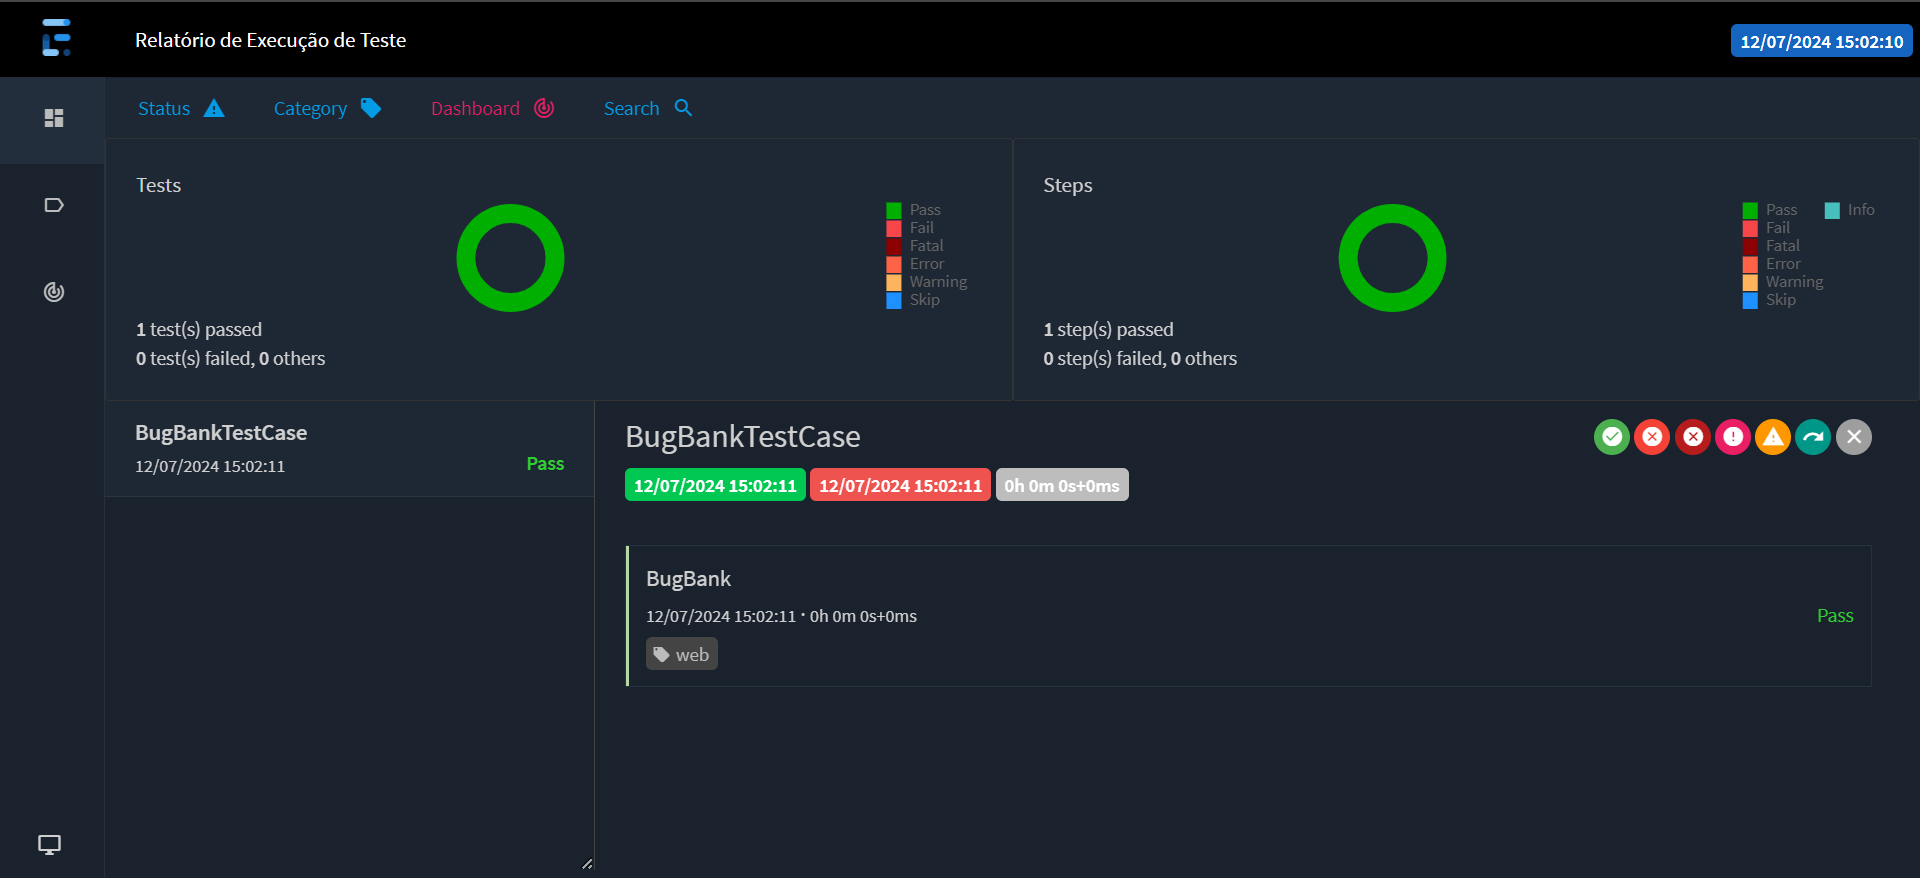
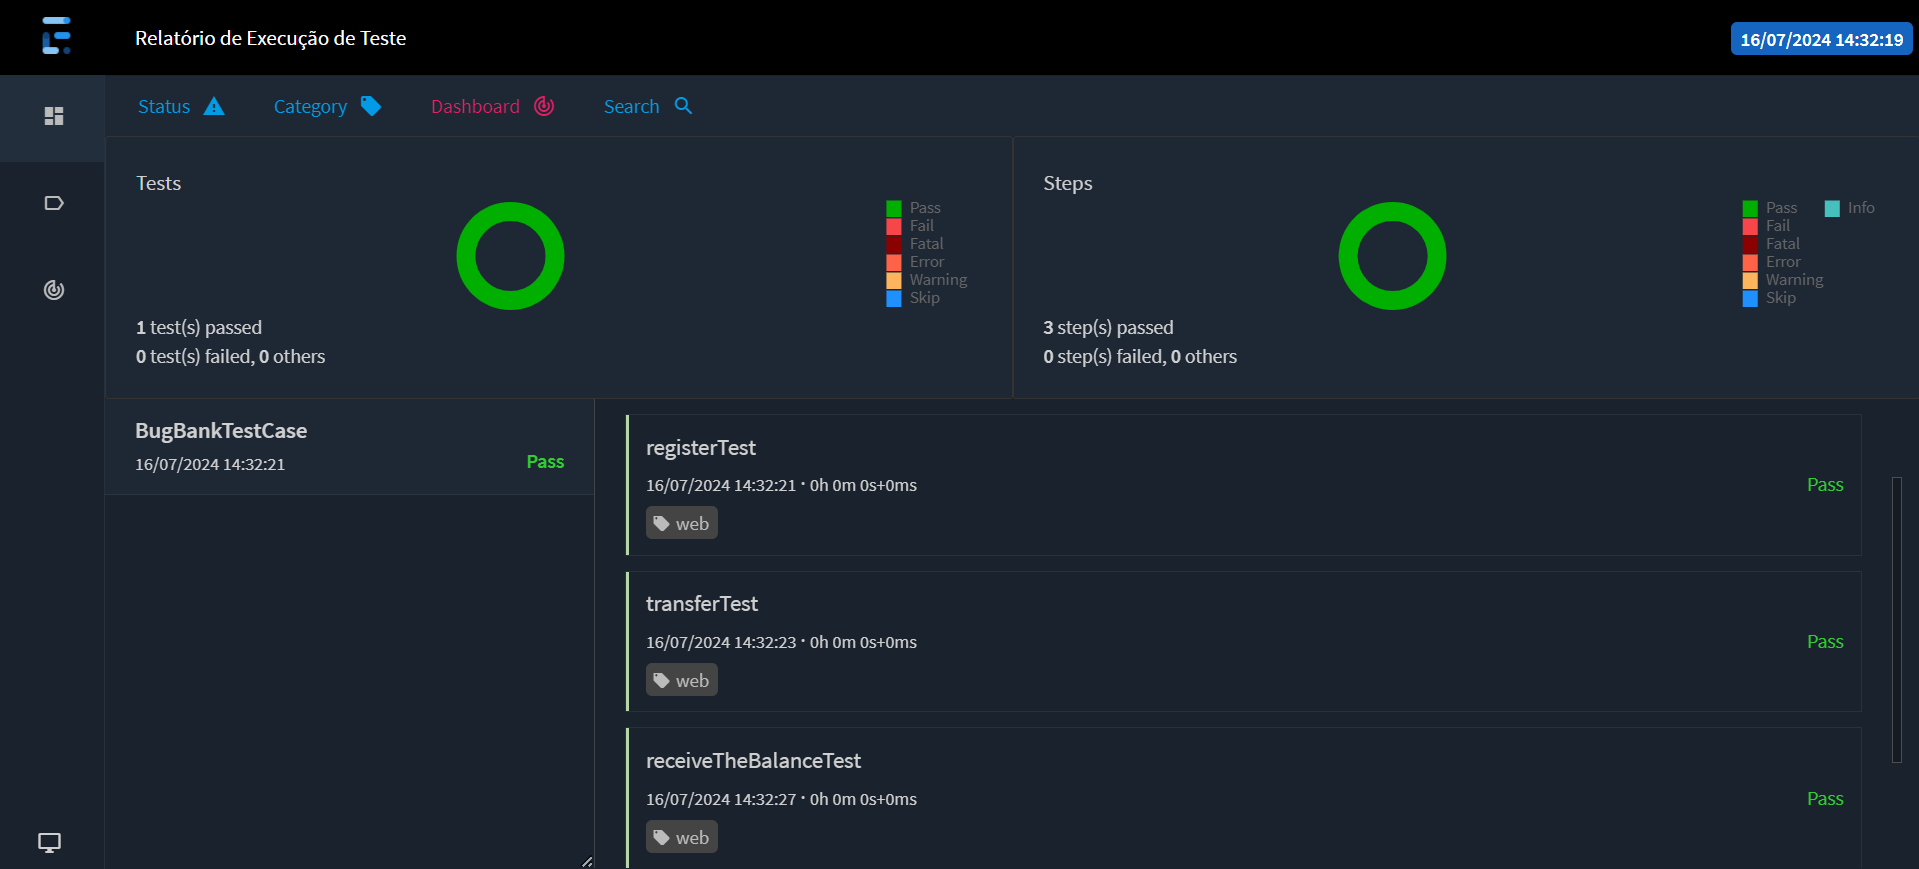
update readme

diff --git a/src/main/java/app/netlify/bugbank/steps/AccountMovementStep.java b/src/main/java/app/netlify/bugbank/steps/AccountMovementStep.java
@@ -1,46 +1,46 @@
-//package app.netlify.bugbank.steps;
-//
-//import app.netlify.bugbank.data.UserModel;
-//import app.netlify.bugbank.pageobjects.AccountScreenPageObject;
-//import app.netlify.bugbank.utils.Report;
-//import app.netlify.bugbank.validations.Validation;
-//import com.aventstack.extentreports.Status;
-//import org.openqa.selenium.WebDriver;
-//
-//import java.io.IOException;
-//
-//public class AccountMovementStep {
-//    private final AccountScreenPageObject accountScreenPageObject;
-//    private final Validation validation;
-//
-//    public AccountMovementStep(WebDriver driver) {
-//        accountScreenPageObject = new AccountScreenPageObject(driver);
-//        validation = new Validation(driver);
-//    }
-//
-//    public void receiveTheBalance() throws IOException {
-//        UserModel data = new UserModel("2_user");
-//        login(data.getEmail(), data.getPassword());
-//        bankStatement();
-//    }
-//
-//    private void login(String emailSecond, String passwordUserSecond) throws IOException {
-//        Report.log(Status.INFO, "O segundo do usuario acessar na conta.");
-//        accountScreenPageObject.emailTextField().sendKeys(emailSecond);
-//        accountScreenPageObject.passwordTextField().sendKeys(passwordUserSecond);
-//        accountScreenPageObject.accessAccountButton().click();
-//        validation.secondUserAccountPage();
-//    }
-//
-//    private void bankStatement() throws IOException {
-//        Report.log(Status.INFO, "Movimento bancária do usuario");
-//        accountScreenPageObject.balanceStatementButton().click();
-//        validation.accountMovement();
-//        if (!accountScreenPageObject.exitAccountButton().isSelected()) {
-//            accountScreenPageObject.exitAccountButton().click();
-//            Report.logCapture(Status.PASS, "O segundo usuario saiu da conta com sucesso.");
-//        } else {
-//            Report.logCapture(Status.FAIL, "Não saiu da conta.");
-//        }
-//    }
-//}
+package app.netlify.bugbank.steps;
+
+import app.netlify.bugbank.pageobjects.AccountScreenPageObject;
+import app.netlify.bugbank.utils.Report;
+import app.netlify.bugbank.validations.Validation;
+import com.aventstack.extentreports.Status;
+import org.openqa.selenium.WebDriver;
+
+import java.io.IOException;
+
+import static app.netlify.bugbank.security.DecrytData.*;
+
+public class AccountMovementStep {
+    private final AccountScreenPageObject accountScreenPageObject;
+    private final Validation validation;
+
+    public AccountMovementStep(WebDriver driver) {
+        accountScreenPageObject = new AccountScreenPageObject(driver);
+        validation = new Validation(driver);
+    }
+
+    public void receiveTheBalance() throws Exception {
+        login(decryptoEmail("2_user_crypto"), decryptoPassword("2_user_crypto"));
+        bankStatement();
+    }
+
+    private void login(String emailSecond, String passwordUserSecond) throws IOException {
+        Report.log(Status.INFO, "O segundo do usuario acessar na conta.");
+        accountScreenPageObject.emailTextField().sendKeys(emailSecond);
+        accountScreenPageObject.passwordTextField().sendKeys(passwordUserSecond);
+        accountScreenPageObject.accessAccountButton().click();
+        validation.secondUserAccountPage();
+    }
+
+    private void bankStatement() throws IOException {
+        Report.log(Status.INFO, "Movimento bancária do usuario");
+        accountScreenPageObject.balanceStatementButton().click();
+        validation.accountMovement();
+        if (!accountScreenPageObject.exitAccountButton().isSelected()) {
+            accountScreenPageObject.exitAccountButton().click();
+            Report.logCapture(Status.PASS, "O segundo usuario saiu da conta com sucesso.");
+        } else {
+            Report.logCapture(Status.FAIL, "Não saiu da conta.");
+        }
+    }
+}

diff --git a/src/test/java/app/netlify/bugbank/testcases/BugBankTestCase.java b/src/test/java/app/netlify/bugbank/testcases/BugBankTestCase.java
@@ -1,5 +1,6 @@
 package app.netlify.bugbank.testcases;
 
+import app.netlify.bugbank.steps.AccountMovementStep;
 import app.netlify.bugbank.steps.CreateAccountStep;
 import app.netlify.bugbank.steps.TransferStep;
 import app.netlify.bugbank.utils.BaseTest;
@@ -35,13 +36,13 @@ public class BugBankTestCase extends BaseTest {
         transfer.makeTransfer();
     }
 
-//    @Test (
-//            description = "Receber o saldo da transferência.",
-//            groups = {"web"},
-//            priority = 3
-//    )
-//    public void receiveTheBalanceTest() throws IOException {
-//        AccountMovementStep accountMovement = new AccountMovementStep(driver());
-//        accountMovement.receiveTheBalance();
-//    }
+    @Test (
+            description = "Receber o saldo da transferência.",
+            groups = {"web"},
+            priority = 3
+    )
+    public void receiveTheBalanceTest() throws Exception {
+        AccountMovementStep accountMovement = new AccountMovementStep(driver());
+        accountMovement.receiveTheBalance();
+    }
 }

diff --git a/src/main/java/app/netlify/bugbank/security/SecureProperties.java b/src/main/java/app/netlify/bugbank/security/SecureProperties.java
@@ -1,11 +1,11 @@
-package app.netlify.bugbank.utils.security;
+package app.netlify.bugbank.security;
 
 import app.netlify.bugbank.utils.FilesOperation;
 
 import java.io.IOException;
 
 import static app.netlify.bugbank.data.UserData.*;
-import static app.netlify.bugbank.utils.security.Crypto.*;
+import static app.netlify.bugbank.security.Crypto.*;
 
 public class SecureProperties {
 
@@ -36,8 +36,4 @@ public class SecureProperties {
         FilesOperation.createProperties("dataUSer", "2_user_crypto");
         FilesOperation.createProperties("dataUSer", "2_user");
     }
-
-//    public static void deleteProperties() {
-//        FilesOperation.deleteAllProperties("dataUSer");
-//    }
 }

diff --git a/src/main/java/app/netlify/bugbank/steps/CreateAccountStep.java b/src/main/java/app/netlify/bugbank/steps/CreateAccountStep.java
@@ -10,8 +10,8 @@ import org.openqa.selenium.WebDriver;
 
 import java.io.IOException;
 
-import static app.netlify.bugbank.utils.security.DecrytData.*;
-import static app.netlify.bugbank.utils.security.SecureProperties.*;
+import static app.netlify.bugbank.security.DecrytData.*;
+import static app.netlify.bugbank.security.SecureProperties.*;
 
 public class CreateAccountStep {
     private final WebDriver driver;

diff --git a/src/main/java/app/netlify/bugbank/steps/TransferStep.java b/src/main/java/app/netlify/bugbank/steps/TransferStep.java
@@ -11,7 +11,7 @@ import org.openqa.selenium.WebDriver;
 import java.io.IOException;
 
 import static app.netlify.bugbank.supports.RecorderGet.getDataUser;
-import static app.netlify.bugbank.utils.security.DecrytData.*;
+import static app.netlify.bugbank.security.DecrytData.*;
 
 public class TransferStep {
     private final AccountScreenPageObject accountScreenPageObject;

diff --git a/src/main/java/app/netlify/bugbank/utils/DirectoryOperation.java b/src/main/java/app/netlify/bugbank/utils/DirectoryOperation.java
@@ -1,6 +1,6 @@
 package app.netlify.bugbank.utils;
 
-import app.netlify.bugbank.utils.security.SecureProperties;
+import app.netlify.bugbank.security.SecureProperties;
 
 import java.io.File;
 import java.io.IOException;

diff --git a/src/main/java/app/netlify/bugbank/security/Crypto.java b/src/main/java/app/netlify/bugbank/security/Crypto.java
@@ -1,4 +1,4 @@
-package app.netlify.bugbank.utils.security;
+package app.netlify.bugbank.security;
 
 import javax.crypto.Cipher;
 import javax.crypto.spec.SecretKeySpec;

diff --git a/src/main/java/app/netlify/bugbank/security/DecrytData.java b/src/main/java/app/netlify/bugbank/security/DecrytData.java
@@ -1,4 +1,4 @@
-package app.netlify.bugbank.utils.security;
+package app.netlify.bugbank.security;
 
 import app.netlify.bugbank.supports.RecorderGet;
 

diff --git a/README.md b/README.md
@@ -36,13 +36,15 @@
 #### Dependencias:
 :pushpin: [TestNG](https://mvnrepository.com/artifact/org.testng/testng/7.10.2),  
 
-:pushpin: [Selenium Java](https://mvnrepository.com/artifact/org.seleniumhq.selenium/selenium-java/4.21.0),  
+:pushpin: [Selenium Java](https://mvnrepository.com/artifact/org.seleniumhq.selenium/selenium-java/4.22.0),  
 
 :pushpin: [WebDriverManager](https://mvnrepository.com/artifact/io.github.bonigarcia/webdrivermanager/5.8.0),
 
 :pushpin: [Extent Reports TestNG Adapter](https://mvnrepository.com/artifact/com.aventstack/extentreports-testng-adapter/1.0.3)
 
 :pushpin: [Java Faker](https://mvnrepository.com/artifact/com.github.javafaker/javafaker/1.0.2)
+
+:pushpin: [Lombok](https://mvnrepository.com/artifact/org.projectlombok/lombok/1.18.34)
 
 ---
 
@@ -75,6 +77,7 @@ Após a execução do projeto, para visualizar o relatório:
 Abra a pasta de report e selecione o arquivo report.html. 
 Clique com o botão direito do mouse, vá em "Open in", depois "Browser" e escolha o navegador da sua preferência.
 
+#### Screenshot 
 ![](src/main/resources/img/report.png)
 
 ---
